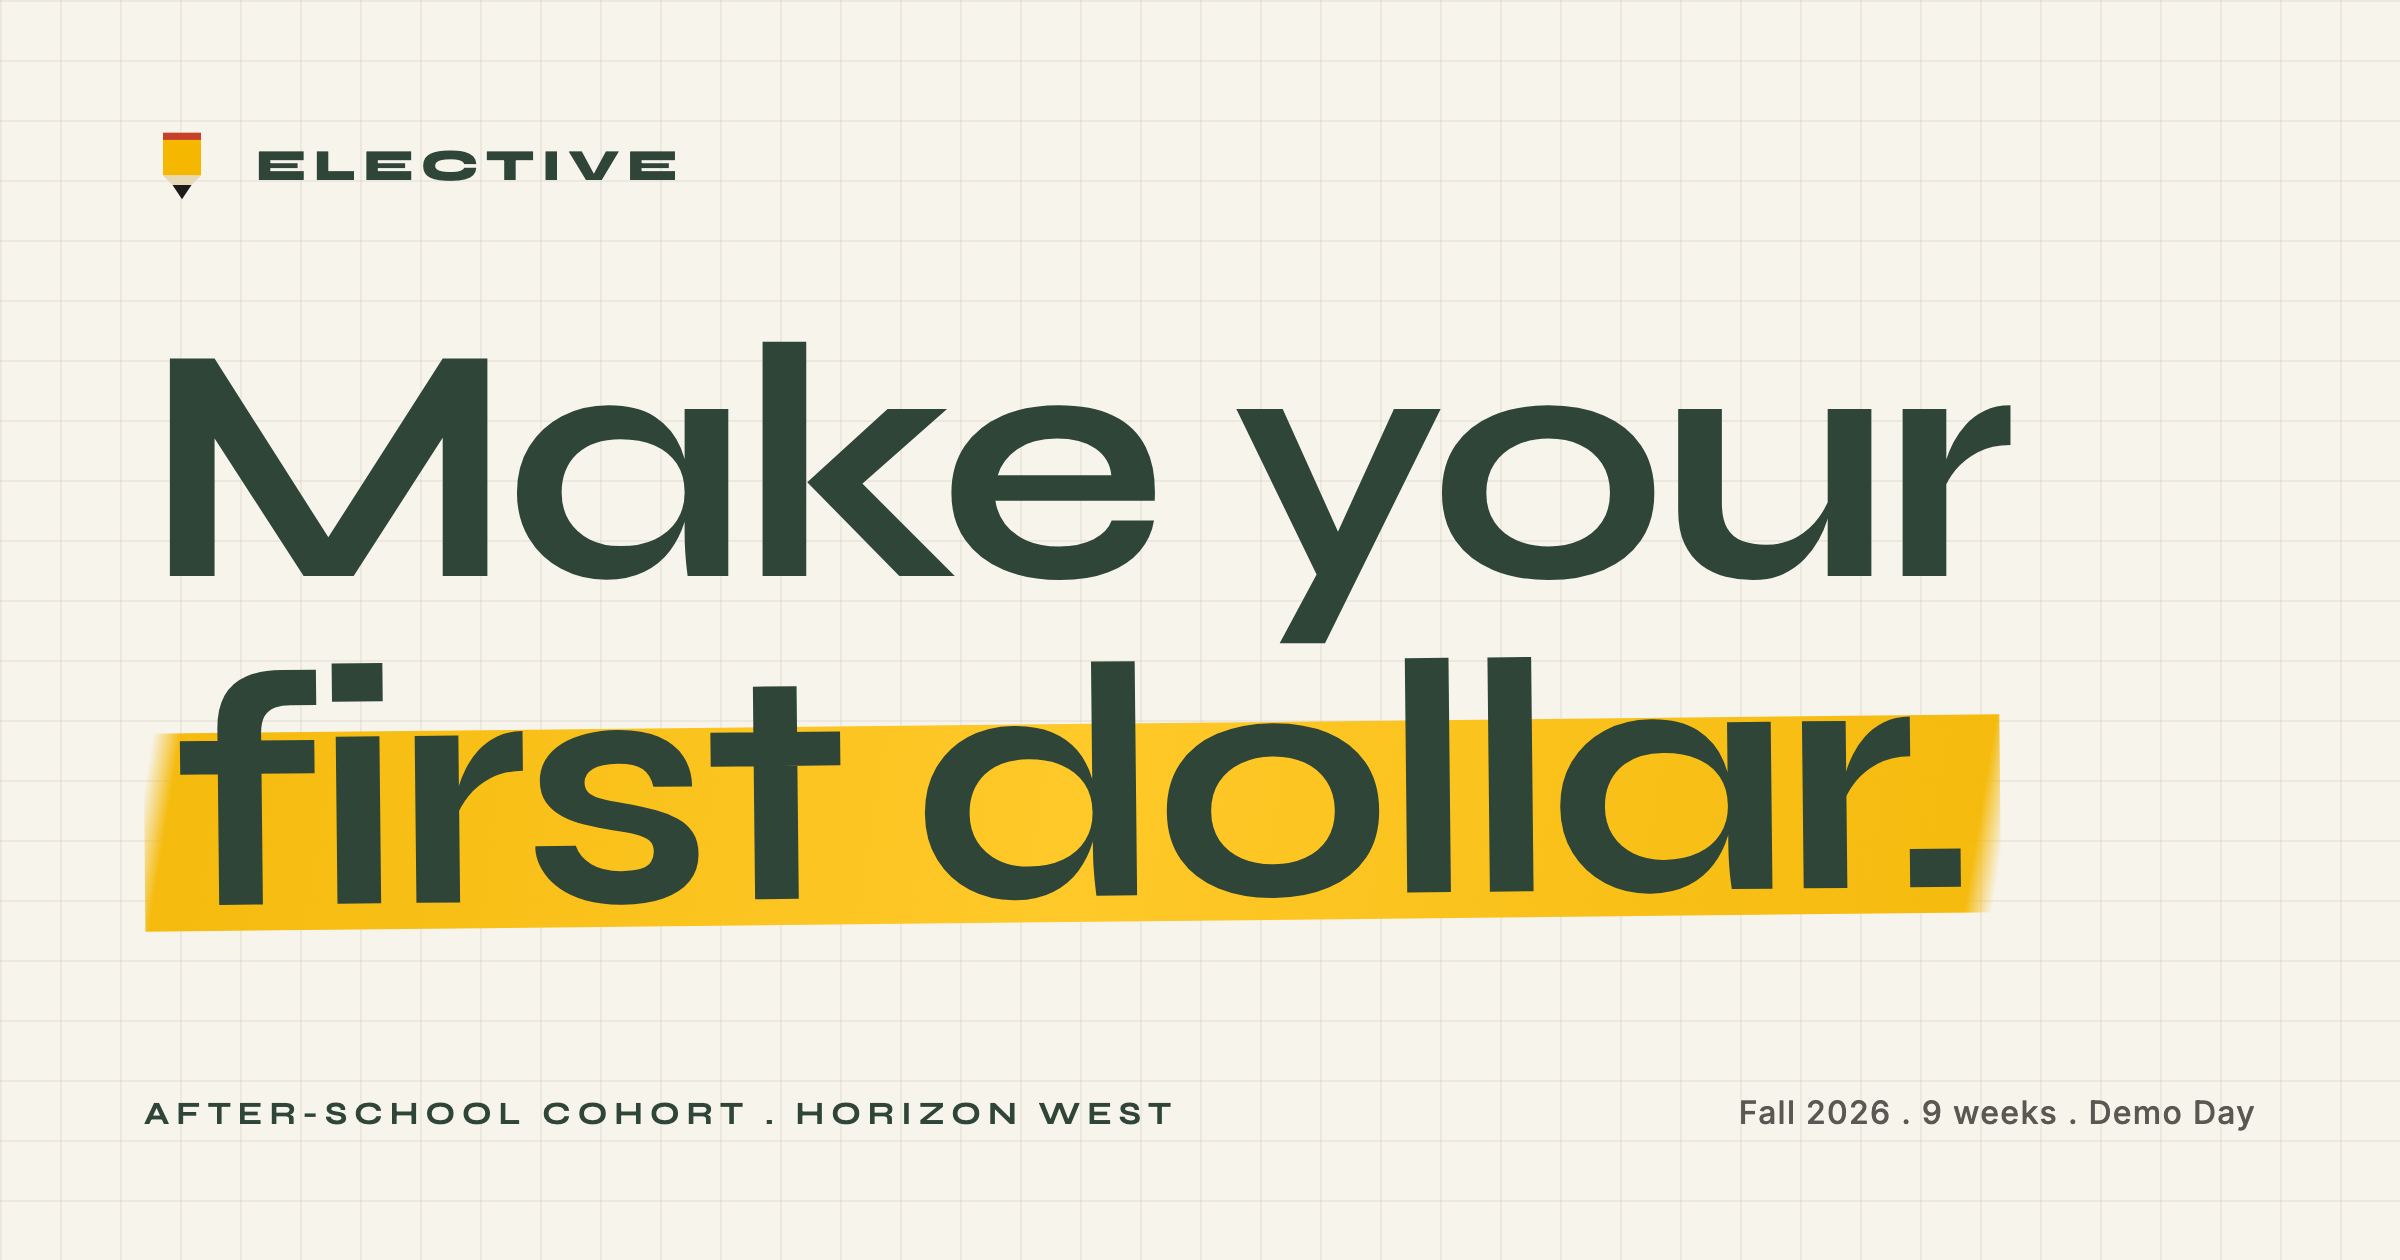
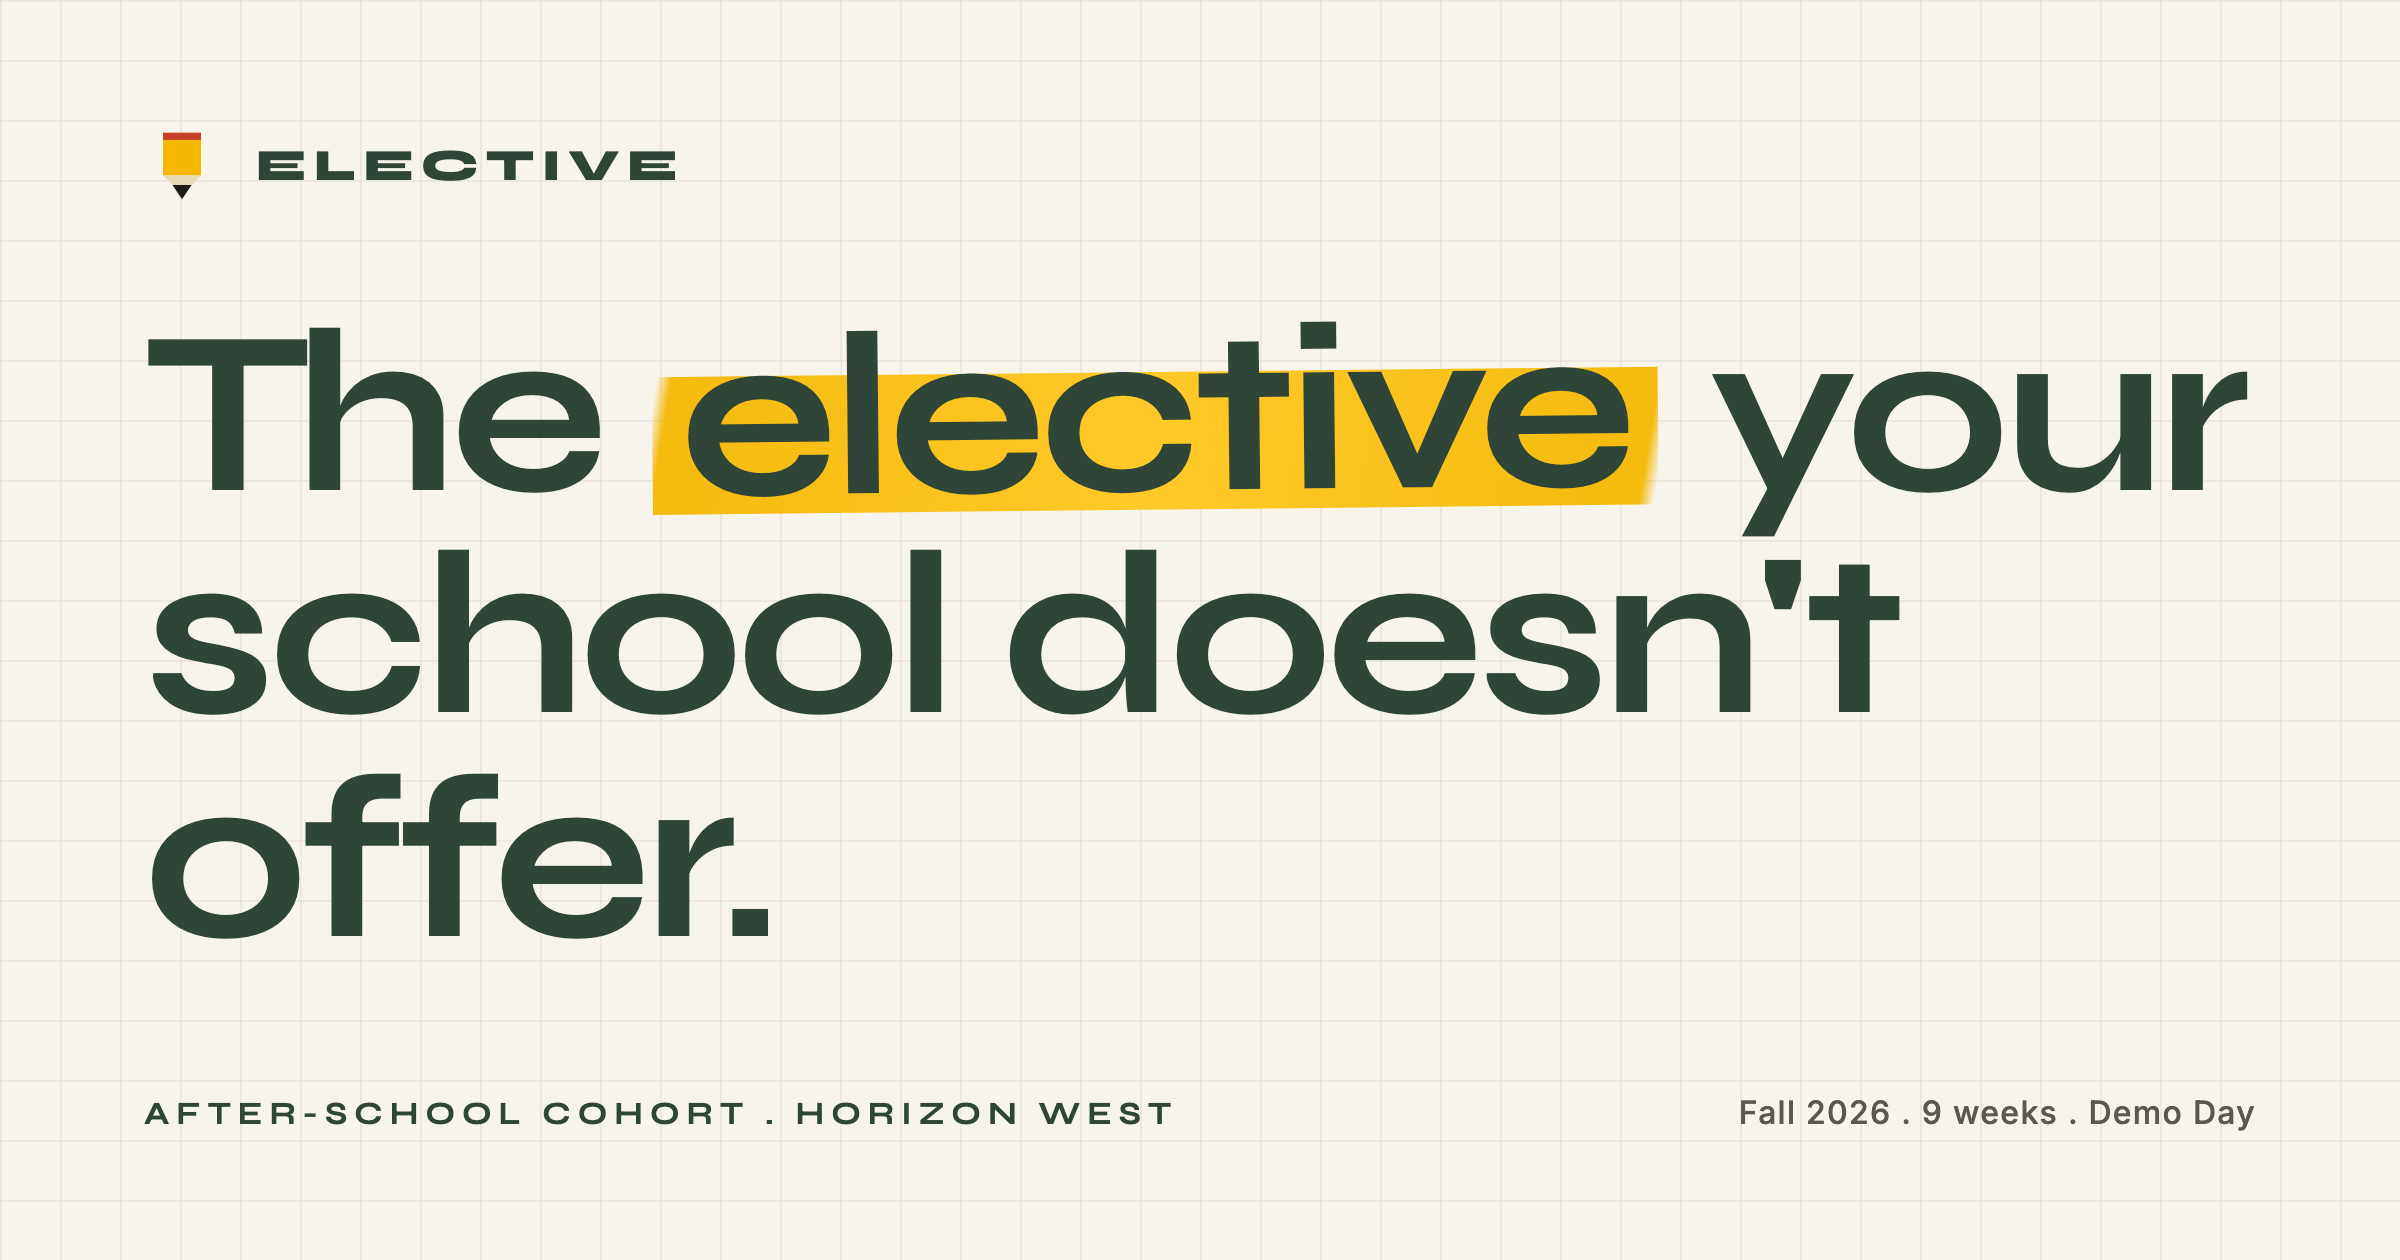
OG card now shows the hero headline
"The elective your school doesn't offer." with the highlighter swipe
on "elective" — matches the page's primary promise instead of the
secondary "first dollar" line. og: + twitter: title meta updated to
match.

Changed region(s): [[0.0625, 0.2476, 0.9375, 0.7429]]

diff --git a/index.html b/index.html
@@ -8,7 +8,7 @@
 
 <meta property="og:type" content="website">
 <meta property="og:url" content="https://elective-sage.vercel.app/">
-<meta property="og:title" content="Elective. Make your first dollar.">
+<meta property="og:title" content="The elective your school doesn't offer.">
 <meta property="og:description" content="9-week after-school cohort for Horizon West high schoolers. Use AI to launch a real business, finished with a live Demo Day.">
 <meta property="og:image" content="https://elective-sage.vercel.app/images/og.png">
 <meta property="og:image:width" content="1200">
@@ -16,7 +16,7 @@
 <meta property="og:site_name" content="Elective">
 
 <meta name="twitter:card" content="summary_large_image">
-<meta name="twitter:title" content="Elective. Make your first dollar.">
+<meta name="twitter:title" content="The elective your school doesn't offer.">
 <meta name="twitter:description" content="9-week after-school cohort for Horizon West high schoolers. Use AI to launch a real business, finished with a live Demo Day.">
 <meta name="twitter:image" content="https://elective-sage.vercel.app/images/og.png">
 

diff --git a/og.html b/og.html
@@ -40,11 +40,12 @@
   .headline {
     font-family: 'Syne', sans-serif;
     font-weight: 700;
-    font-size: 168px;
-    line-height: 0.95;
+    font-size: 116px;
+    line-height: 0.96;
     letter-spacing: -0.025em;
     color: #2E4538;
-    margin-top: -20px;
+    margin-top: -10px;
+    max-width: 17ch;
   }
   .headline .hl {
     display: inline-block;
@@ -96,8 +97,7 @@
   </div>
 
   <div class="headline">
-    Make your<br>
-    <span class="hl">first dollar.</span>
+    The <span class="hl">elective</span> your school doesn't offer.
   </div>
 
   <div class="bottom">
